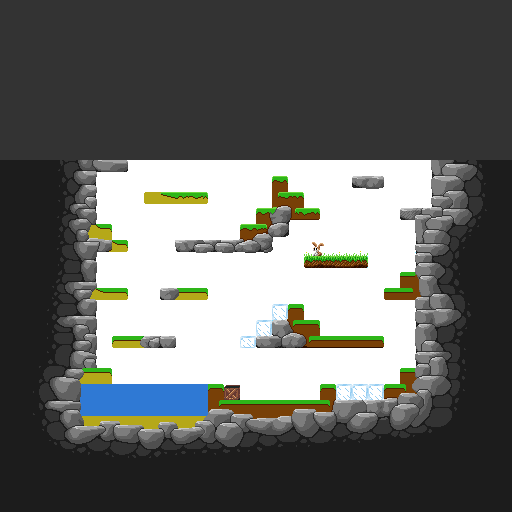
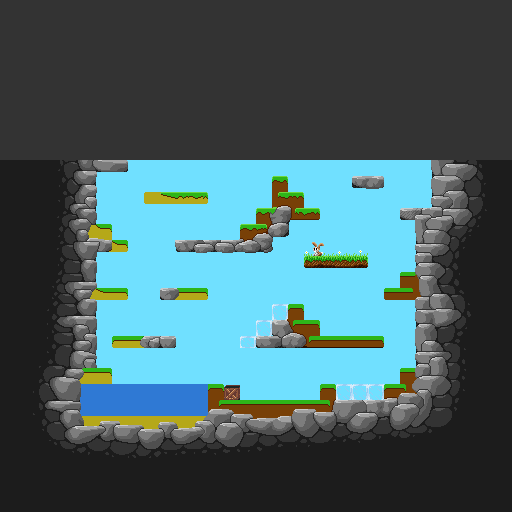
Updates

Changed region(s): [[0.1875, 0.3125, 0.8438, 0.7812], [0.875, 0.4375, 0.9062, 0.4688]]

diff --git a/snail_collision_shape_context.md b/snail_collision_shape_context.md
@@ -1,0 +1,39 @@
+# Snail Collision Shape Context
+
+## Tile Collision Geometry Change (2026-03-21)
+
+The TileSet used by CollisionTiles was refactored. Terrain indices
+are now: normal=0, platform=1, ice=2. The collision geometry also
+changed: ceiling surfaces (the bottom edge of tile collision shapes)
+are now 4 pixels above the tile boundary.
+
+Tile collision shapes in `default_tile_set.tres`:
+- Top/bottom cap tiles: `(-8, -8, 8, -8, 8, 4, -8, 4)` -- bottom
+  edge at y=4 (4px above tile boundary at y=8).
+- Full interior blocks: `(-8, -8, 8, -8, 8, 8, -8, 8)` -- bottom
+  edge at y=8 (tile boundary). These tiles never have an exposed
+  ceiling face because they are sandwiched between other tiles.
+
+In practice, every tile with an exposed ceiling face uses the cap
+shape, so all ceiling surfaces are 4px above the tile boundary.
+
+## Snail Surface-Following Fix
+
+The snail (`src/objects/snail/snail.gd`) follows tile surfaces using
+tile coordinates, face enum, and progress along the face. The visual
+position is derived in `_update_visual()` by offsetting from the tile
+center along the face normal.
+
+Previously, all faces used `Level.TILE_SIZE / 2.0` (8px) as the
+normal offset. With the ceiling inset, `Face.BOTTOM` now uses
+`TILE_SIZE / 2.0 - _CEILING_INSET` (4px).
+
+Changes made:
+- Added `const _CEILING_INSET := 4.0` to `Snail`.
+- `_update_visual()`: BOTTOM face normal offset reduced from 8 to 4.
+- `_advance()` trail corner positions: when leaving a BOTTOM face at
+  a concave corner, the normal component of the corner vertex uses
+  the same 4px inset.
+
+Floor (TOP), wall (LEFT/RIGHT) surfaces are unaffected. Their
+collision edges are at the tile boundary.